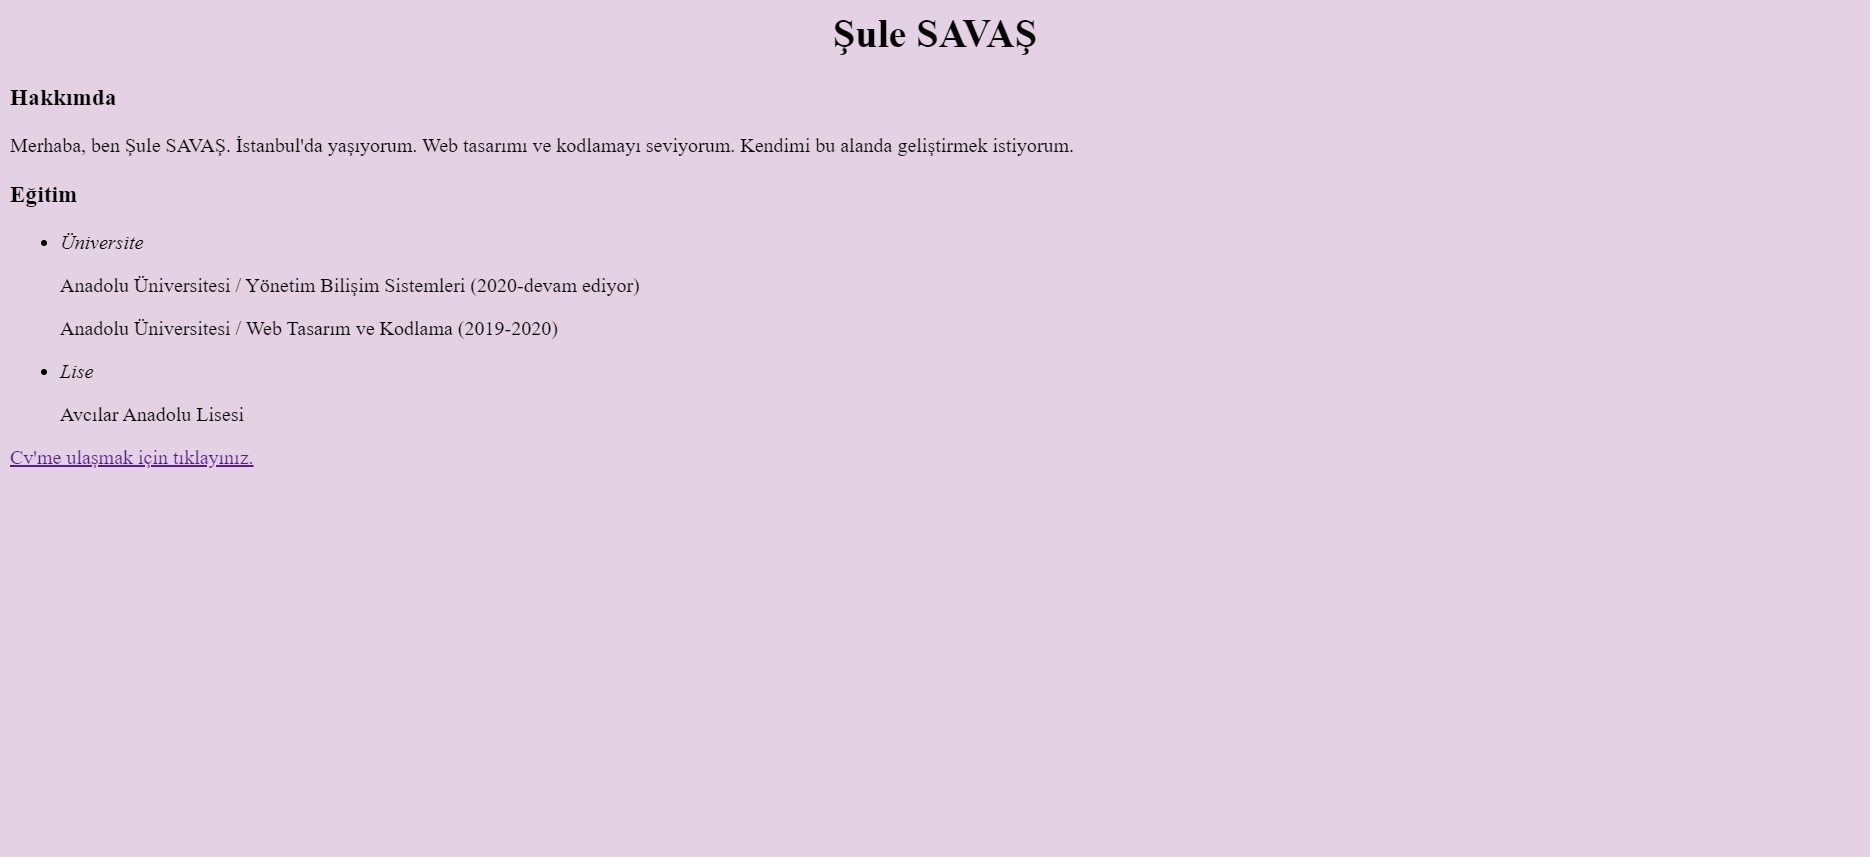
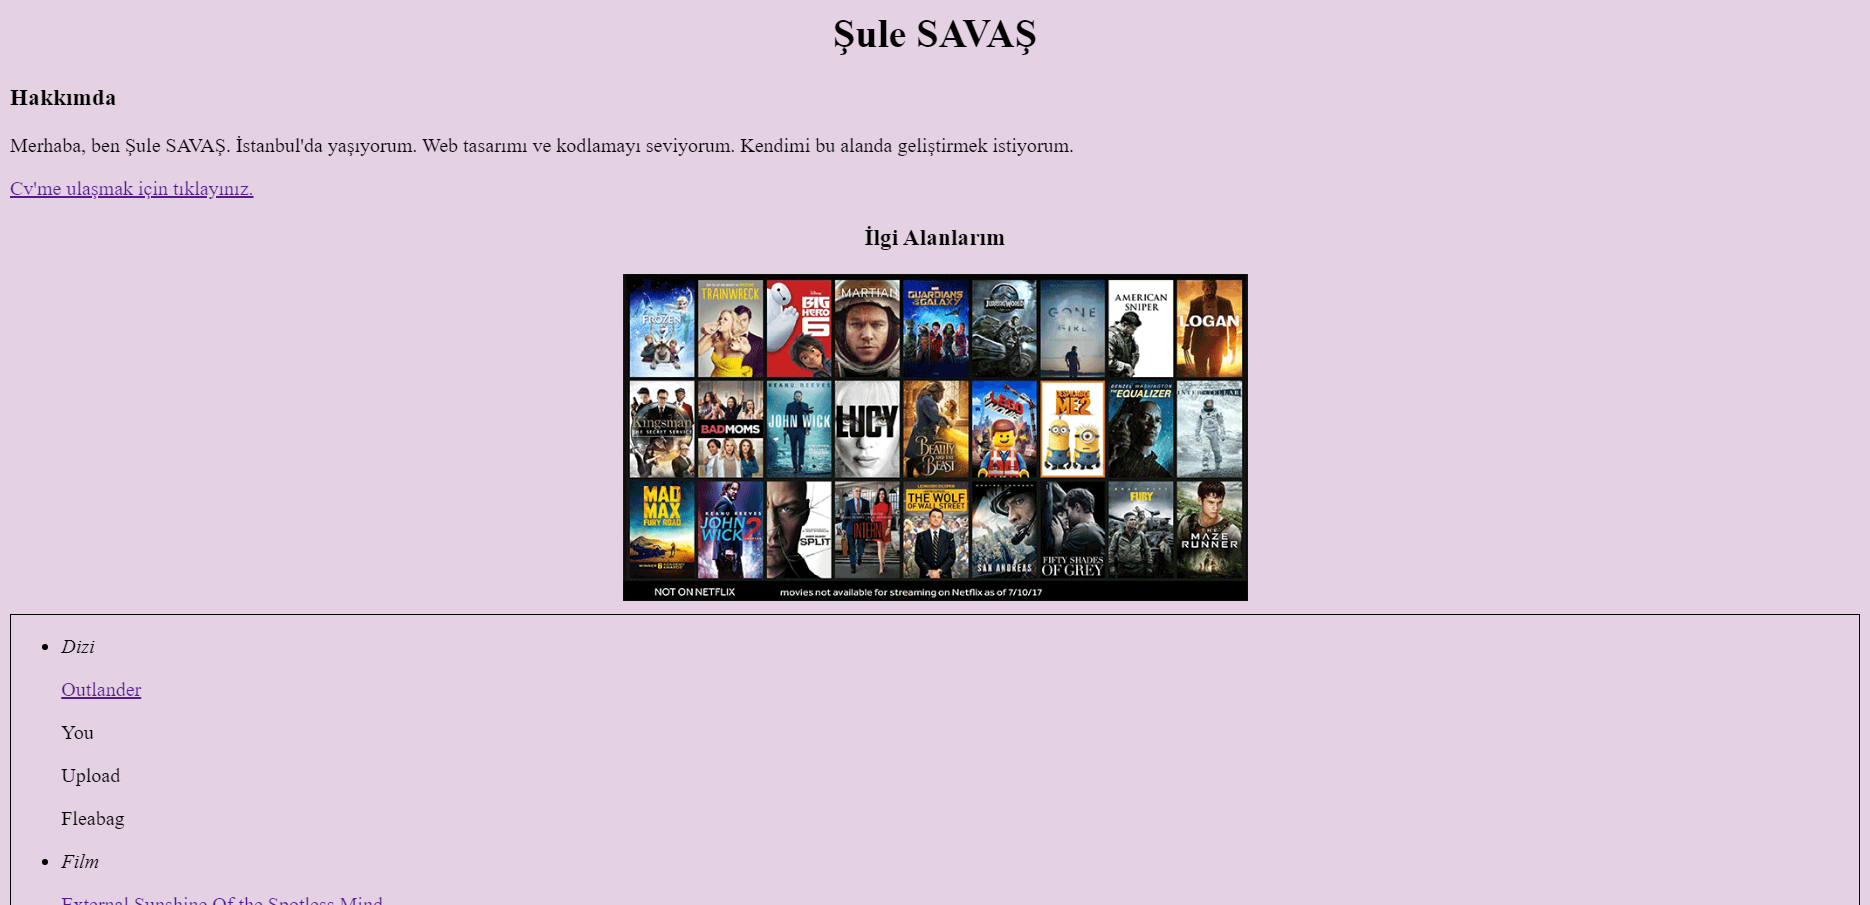
düzeltmeler yapıldı

diff --git a/index.html b/index.html
@@ -11,18 +11,37 @@
       seviyorum. Kendimi bu alanda geliştirmek istiyorum.
     </p>
 
-    <h3>Eğitim</h3>
-    <ul>
-      <li><em>Üniversite</em></li>
-      <p>Anadolu Üniversitesi / Yönetim Bilişim Sistemleri (2020-devam ediyor)</p>
-      <p>Anadolu Üniversitesi / Web Tasarım ve Kodlama (2019-2020)</p>
+    <a href="https://sulesavas.asnus.com">Cv'me ulaşmak için tıklayınız.</a>
 
-      <li><em>Lise</em></li>
-      <p>Avcılar Anadolu Lisesi</p>
-      
+    <div style="text-align: center;margin-bottom: 10px;">
+    <h3>İlgi Alanlarım</h3>
+
+
+      <img src="movies.png" width="500"/>
+
+    </div>
+
+    <div style="border:#000 solid 1px">
+    <ul>
+      <li><em>Dizi</em></li>
+      <p><a href="https://www.imdb.com/title/tt3006802/">Outlander</a></p>
+      <p>You</p>
+      <p>Upload</p>
+      <p>Fleabag</p>
+
+      <li><em>Film</em></li>
+      <p><a href="https://www.imdb.com/title/tt0338013/">External Sunshine Of the Spotless Mind</a></p>
+      <p>Pirates Of the Caribbean</p>
+
+      <li><em>Kitap</em></li>
+      <p><a href="https://www.goodreads.com/book/show/2767052-the-hunger-games">Hunger Games</a></p>
+      <p>Jan Forstner</p>
+
     </ul>
 
-    <a href="https://sulesavas.asnus.com">Cv'me ulaşmak için tıklayınız.</a>
+</div>
+
+
 
 
   </body>
